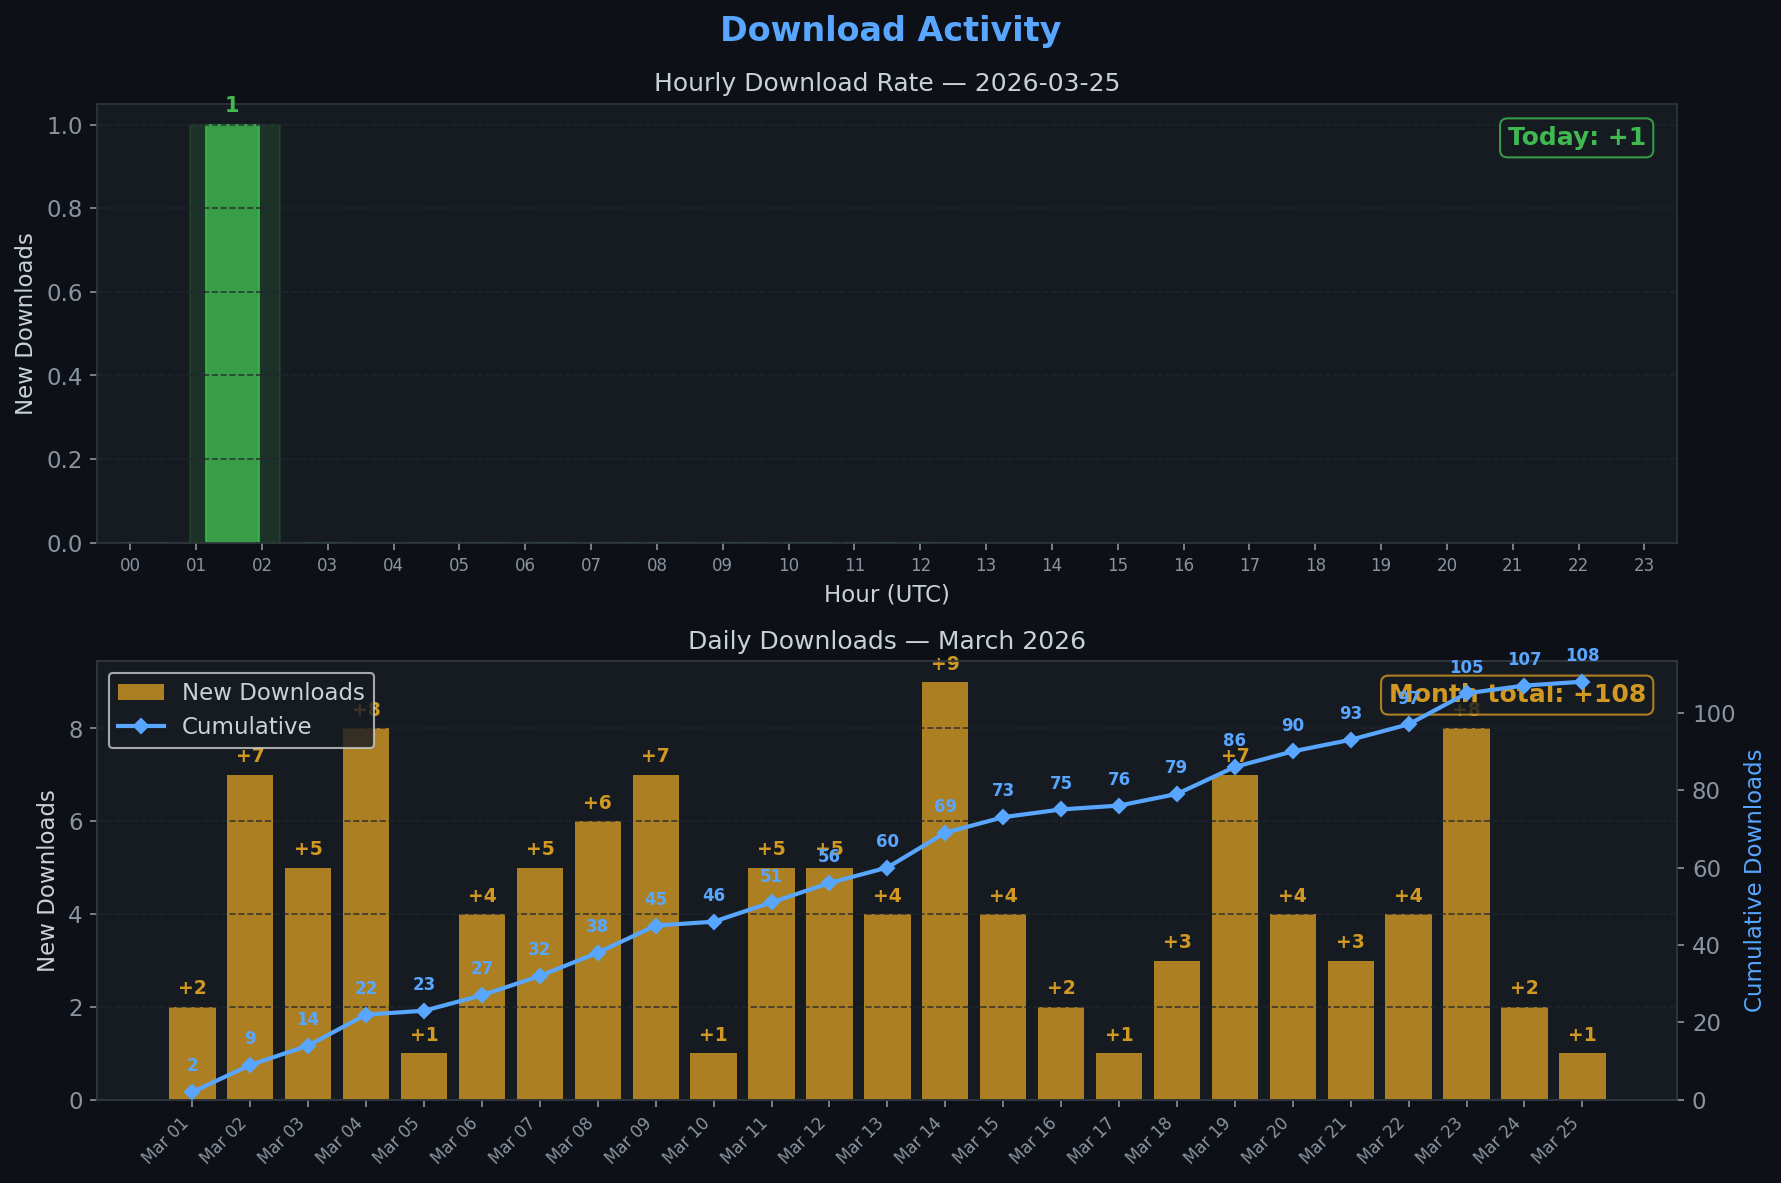
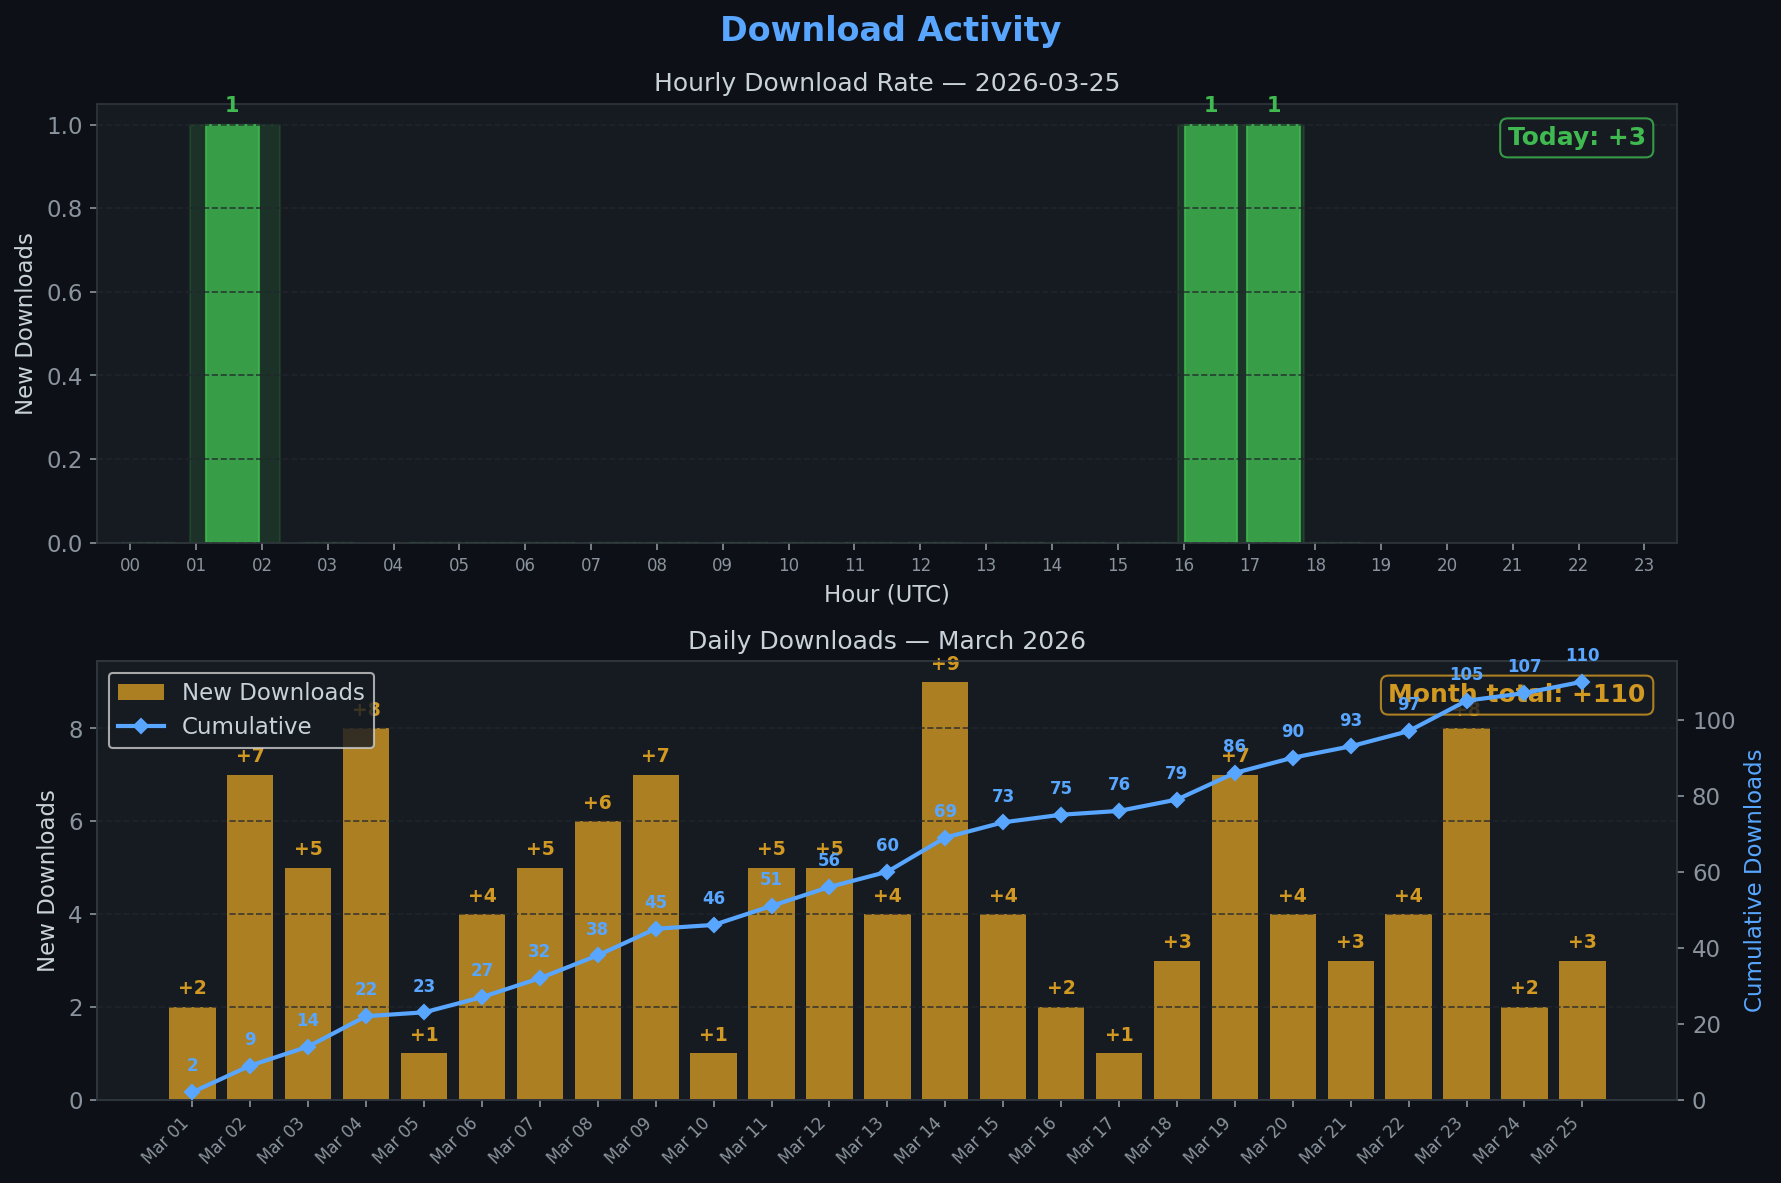
chore: Full traffic snapshot 2026-03-25_18:18

diff --git a/.github/traffic/SUMMARY.md b/.github/traffic/SUMMARY.md
@@ -1,7 +1,7 @@
 # FS25_UsedPlus — Traffic Dashboard
 
-**Last updated:** 2026-03-25T12:13:47Z
-**Days tracked:** 36 | **Download snapshots:** 821 (hourly)
+**Last updated:** 2026-03-25T18:18:45Z
+**Days tracked:** 36 | **Download snapshots:** 827 (hourly)
 
 ---
 
@@ -30,9 +30,9 @@
 
 ![Conversion](charts/conversion.png)
 
-> **14-day conversion:** 806 of 222 visitors cloned or downloaded (**363.0%**)
+> **14-day conversion:** 808 of 222 visitors cloned or downloaded (**363.9%**)
 >
-> Unique cloners: 627 | Release downloads: 179
+> Unique cloners: 627 | Release downloads: 181
 
 ---
 
@@ -42,9 +42,9 @@
 
 | Channel | Count |
 |---------|-------|
-| Zip Downloads | 179 |
+| Zip Downloads | 181 |
 | Git Clones (14-day) | 1894 |
-| **Total Acquisitions** | **2073** |
+| **Total Acquisitions** | **2075** |
 
 ---
 
